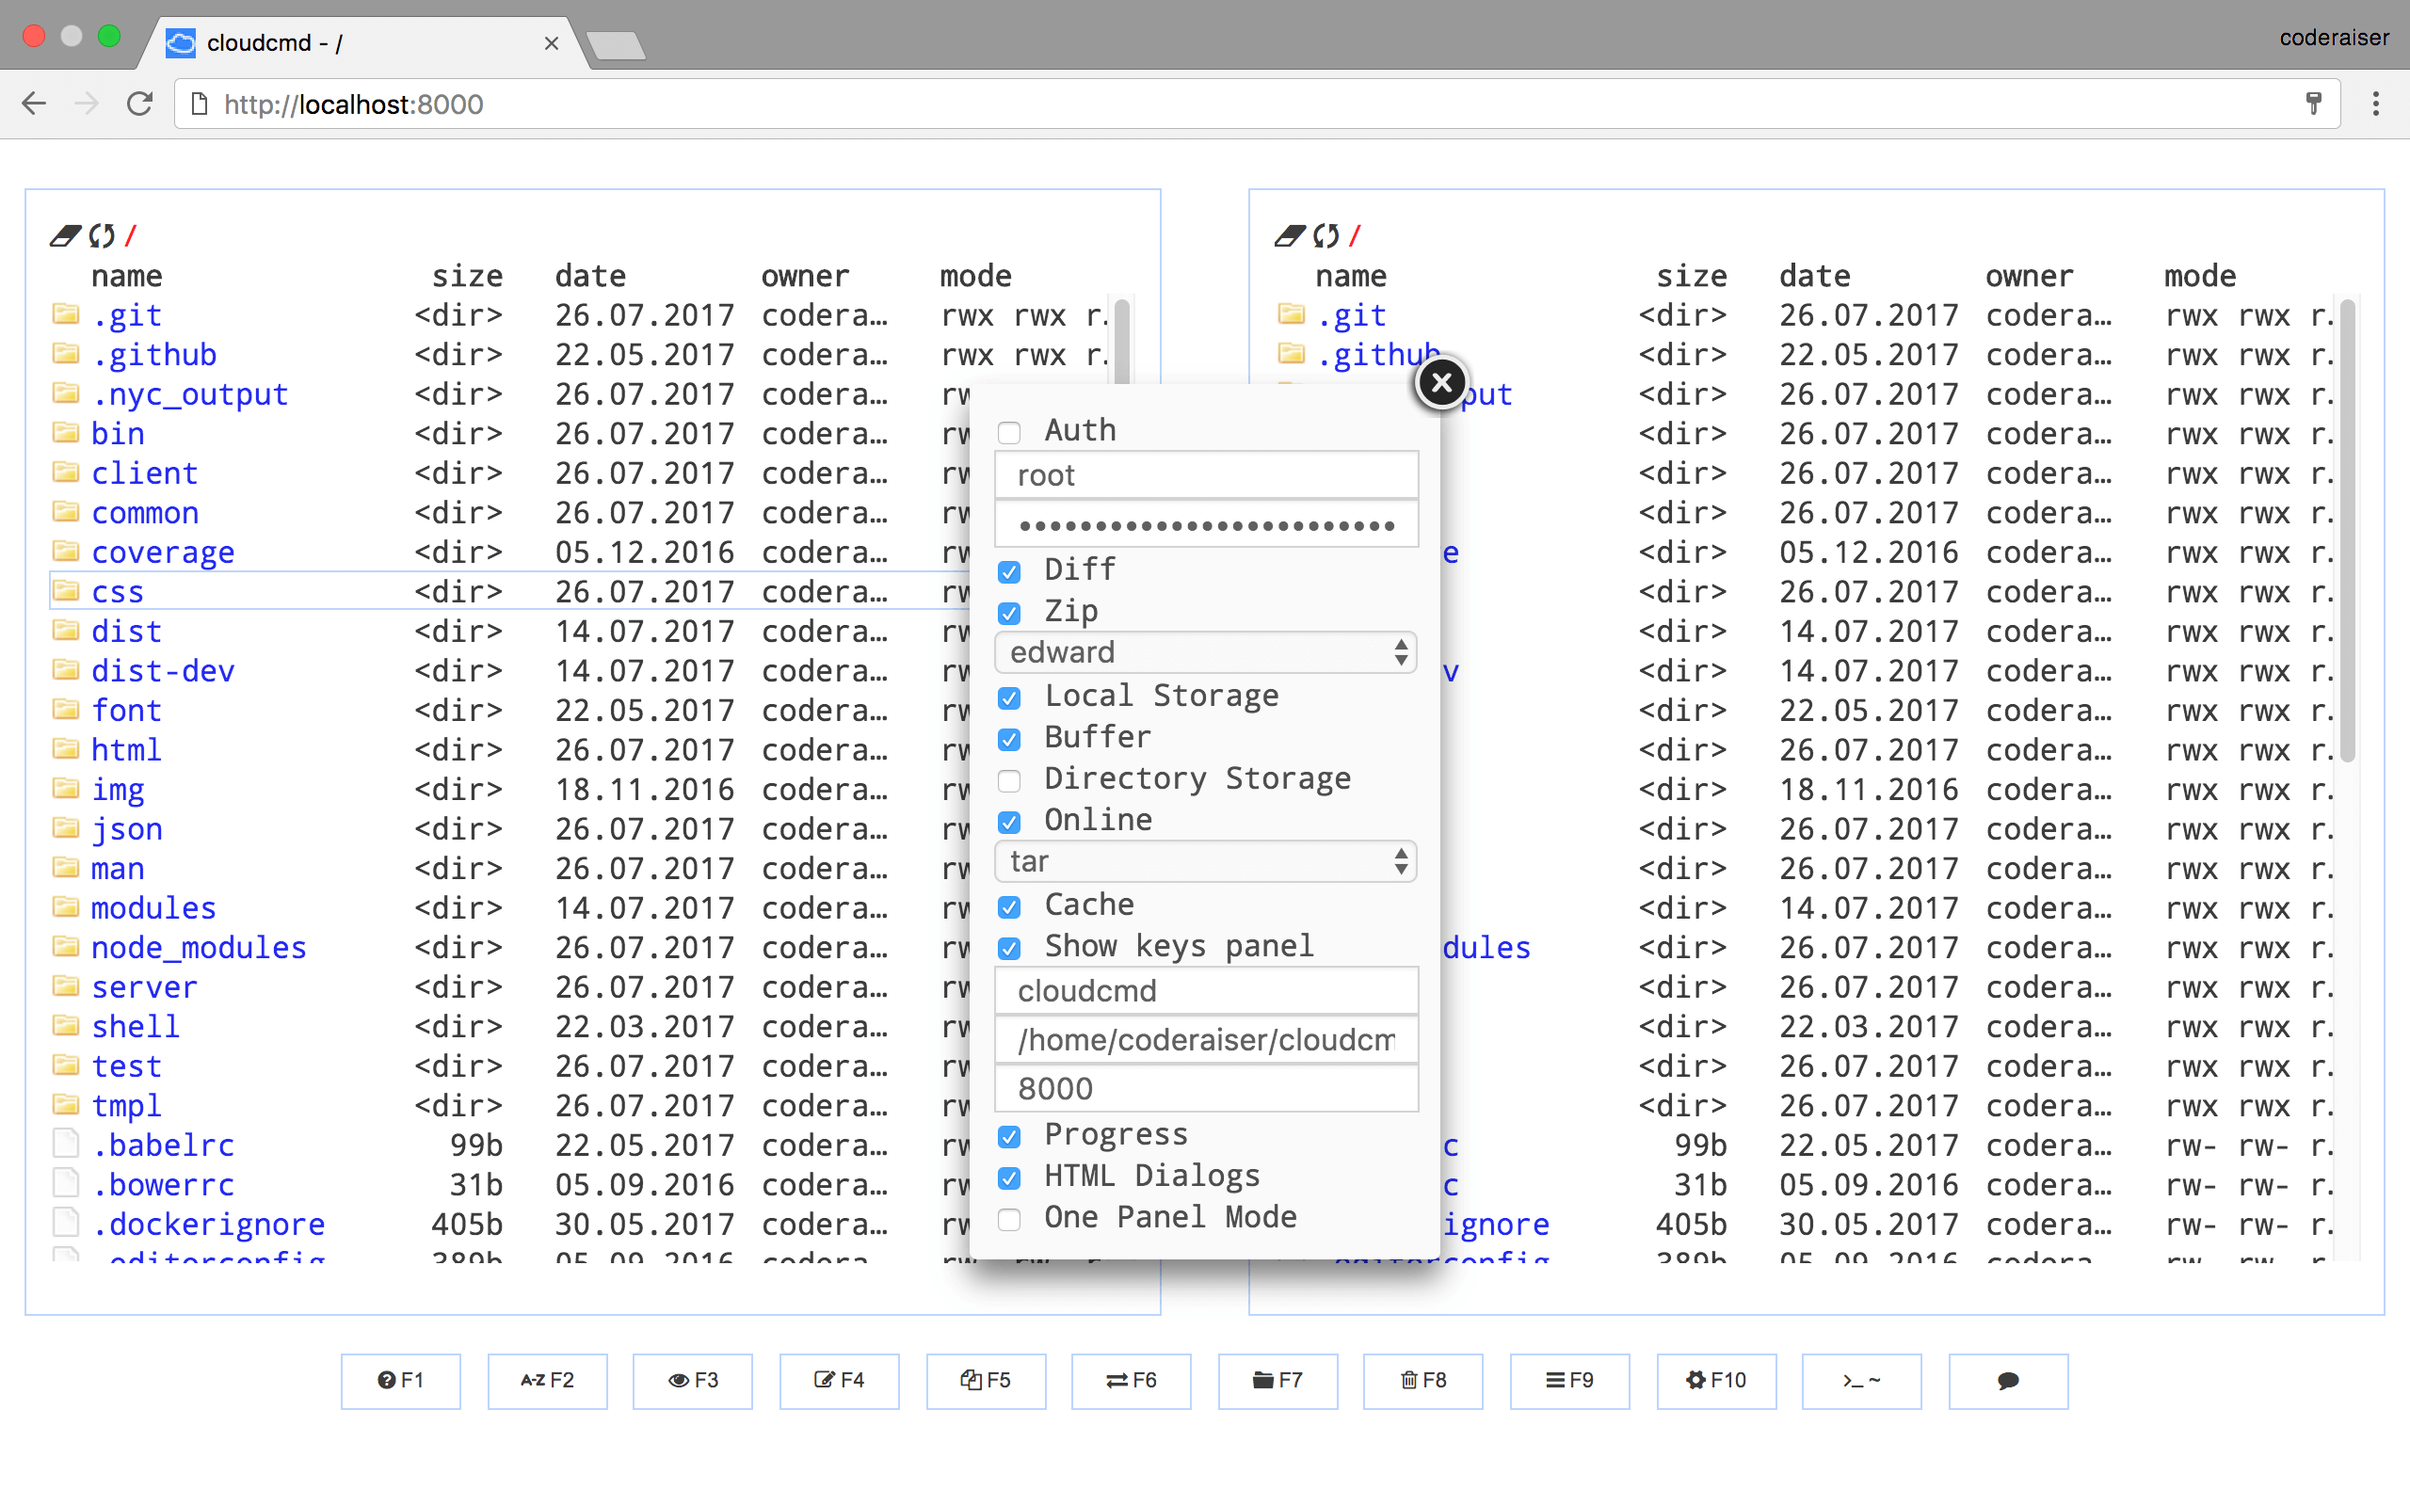
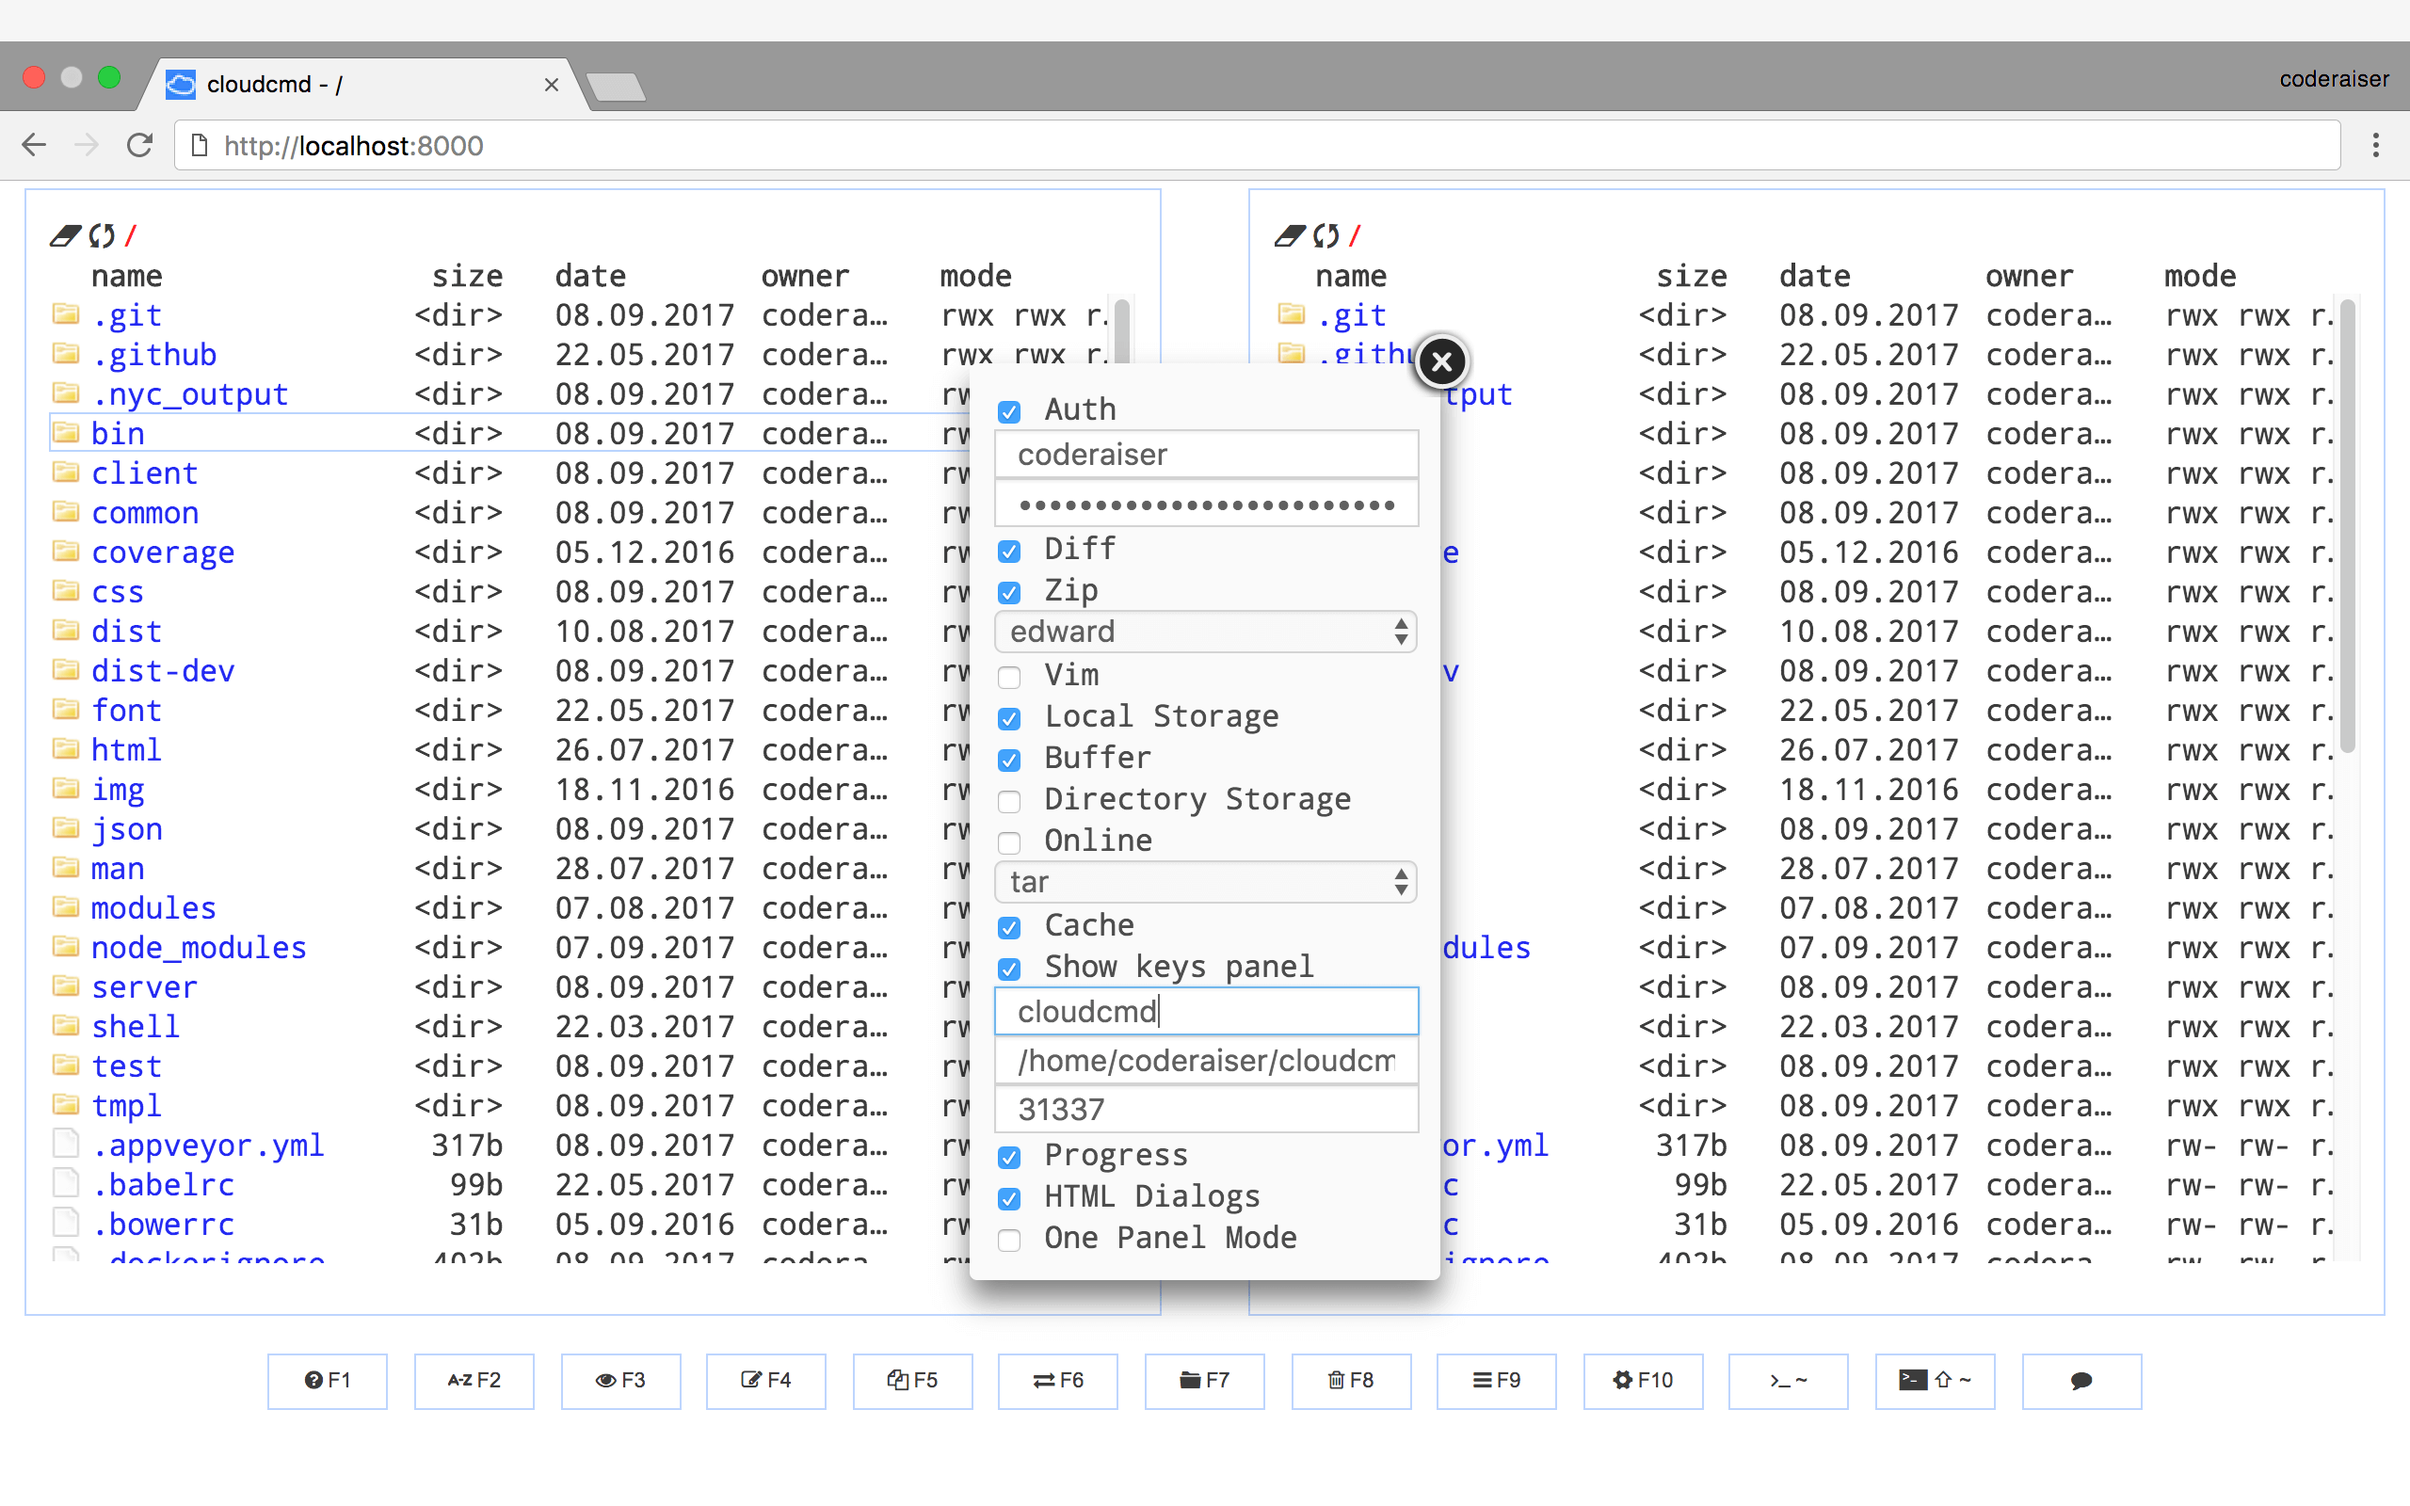
chore(package) v7.5.0

diff --git a/index.md b/index.md
@@ -22,7 +22,7 @@ styles:
 hideDownloadButtons: true
 ---
 
-# Cloud Commander v7.4.0
+# Cloud Commander v7.5.0
 
 ### [Main][MainURL] [Blog][BlogURL] Live(![Heroku][Heroku_LIVE_IMG] [Heroku][HerokuURL], ![Now][NOW_LIVE_IMG] [Now][NowURL])
 
@@ -113,18 +113,20 @@ Cloud Commander supports command line parameters:
 | `--console`                   | enable console
 | `--terminal`                  | enable terminal
 | `--terminal-path`             | set terminal path
+| `--vim`                       | enable vim hot keys
 | `--no-server`                 | do not start server
 | `--no-auth`                   | disable authorization
 | `--no-online`                 | load scripts from local server
 | `--no-open`                   | do not open web browser when server started
+| `--no-name`                   | set empty tab name in web browser
+| `--no-one-panel-mode`         | unset one panel mode
 | `--no-progress`               | do not show progress of file operations
 | `--no-html-dialogs`           | do not use html dialogs
-| `--no-one-panel-mode`         | unset one panel mode
 | `--no-contact`                | disable contact
 | `--no-config-dialog`          | disable config dialog
 | `--no-console`                | disable console
 | `--no-terminal`               | disable terminal
-| `--no-name`                   | set empty tab name in web browser
+| `--no-vim`                    | disable vim hot keys
 
 
 If no parameters given Cloud Commander reads information from `~/.cloudcmd.json` and use
@@ -197,6 +199,27 @@ Hot keys
 | `F9`                  | context menu
 | `~`                   | console
 | `Ctrl + Click`        | open file on new tab
+
+### Vim
+
+When `--vim` option provided, or configuration parameter `vim` set, next hot keys become available:
+
+|Key                    |Operation
+|:----------------------|:--------------------------------------------
+| `j`                   | navigate to next file
+| `k`                   | navigate to previous file
+| `dd`                  | remove current file
+| `G`                   | navigate to bottom file
+| `gg`                  | navigate to top file
+| `v`                   | visual mode
+| `y`                   | copy (selected in visual mode files)
+| `p`                   | paste files
+| `Esc`                 | unselect all
+
+Commands can be joined, for example:
+- `5j` will navigate `5` files below current;
+- `d5j` will remove next `5` files;
+- `dG` will remove all files from current to bottom;
 
 View
 ---------------
@@ -357,6 +380,7 @@ Here is description of options:
     "console"           : true,     /* enable console                           */
     "terminal"          : false,    /* disable terminal                         */
     "terminalPath"      : '',       /* path of a terminal                       */
+    "vim"               : false,    /* disable vim hot keys                     */
 }
 ```
 
@@ -631,6 +655,7 @@ There is a lot ways to be involved in `Cloud Commander` development:
 
 Version history
 ---------------
+- *2017.09.08*, **[v7.5.0](//github.com/coderaiser/cloudcmd/releases/tag/v7.5.0)**
 - *2017.09.04*, **[v7.4.0](//github.com/coderaiser/cloudcmd/releases/tag/v7.4.0)**
 - *2017.08.29*, **[v7.3.2](//github.com/coderaiser/cloudcmd/releases/tag/v7.3.2)**
 - *2017.08.14*, **[v7.3.1](//github.com/coderaiser/cloudcmd/releases/tag/v7.3.1)**
